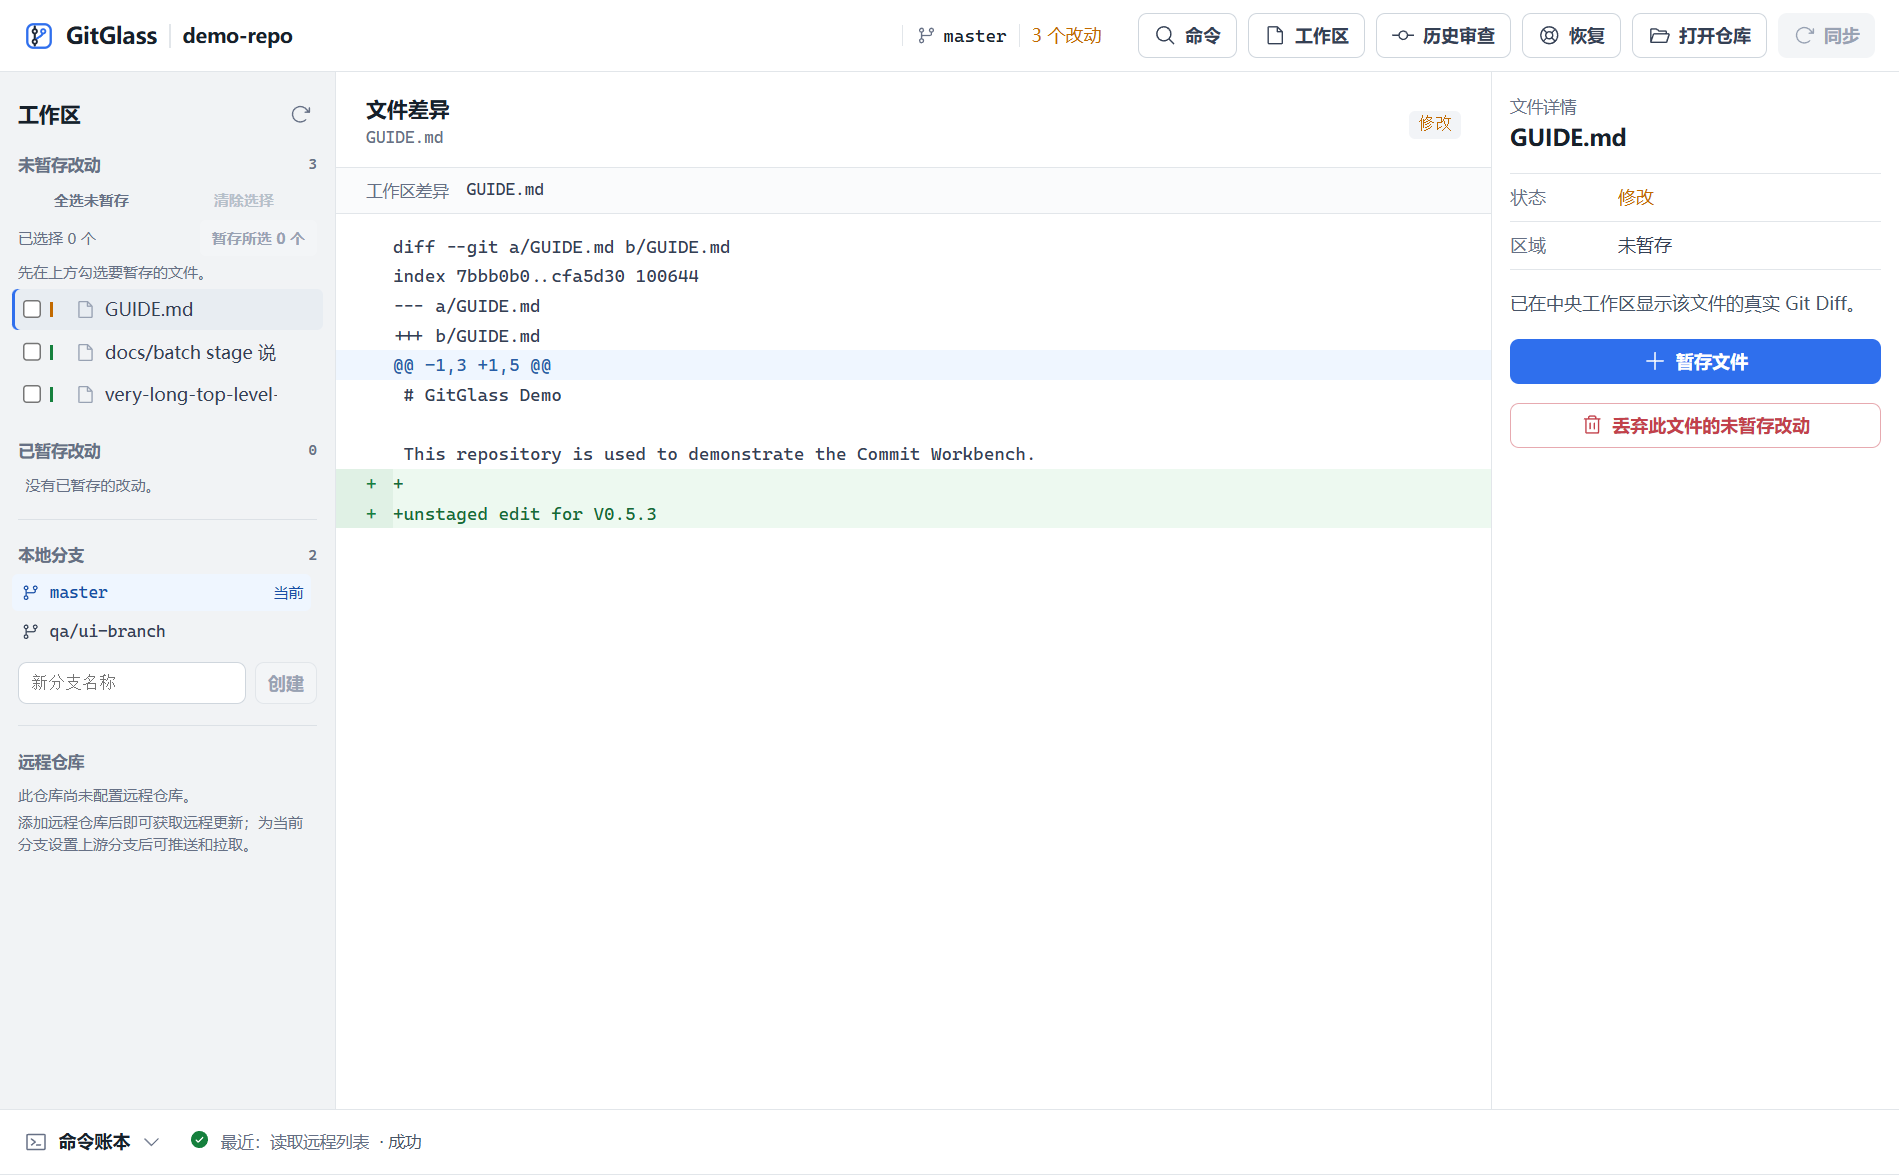
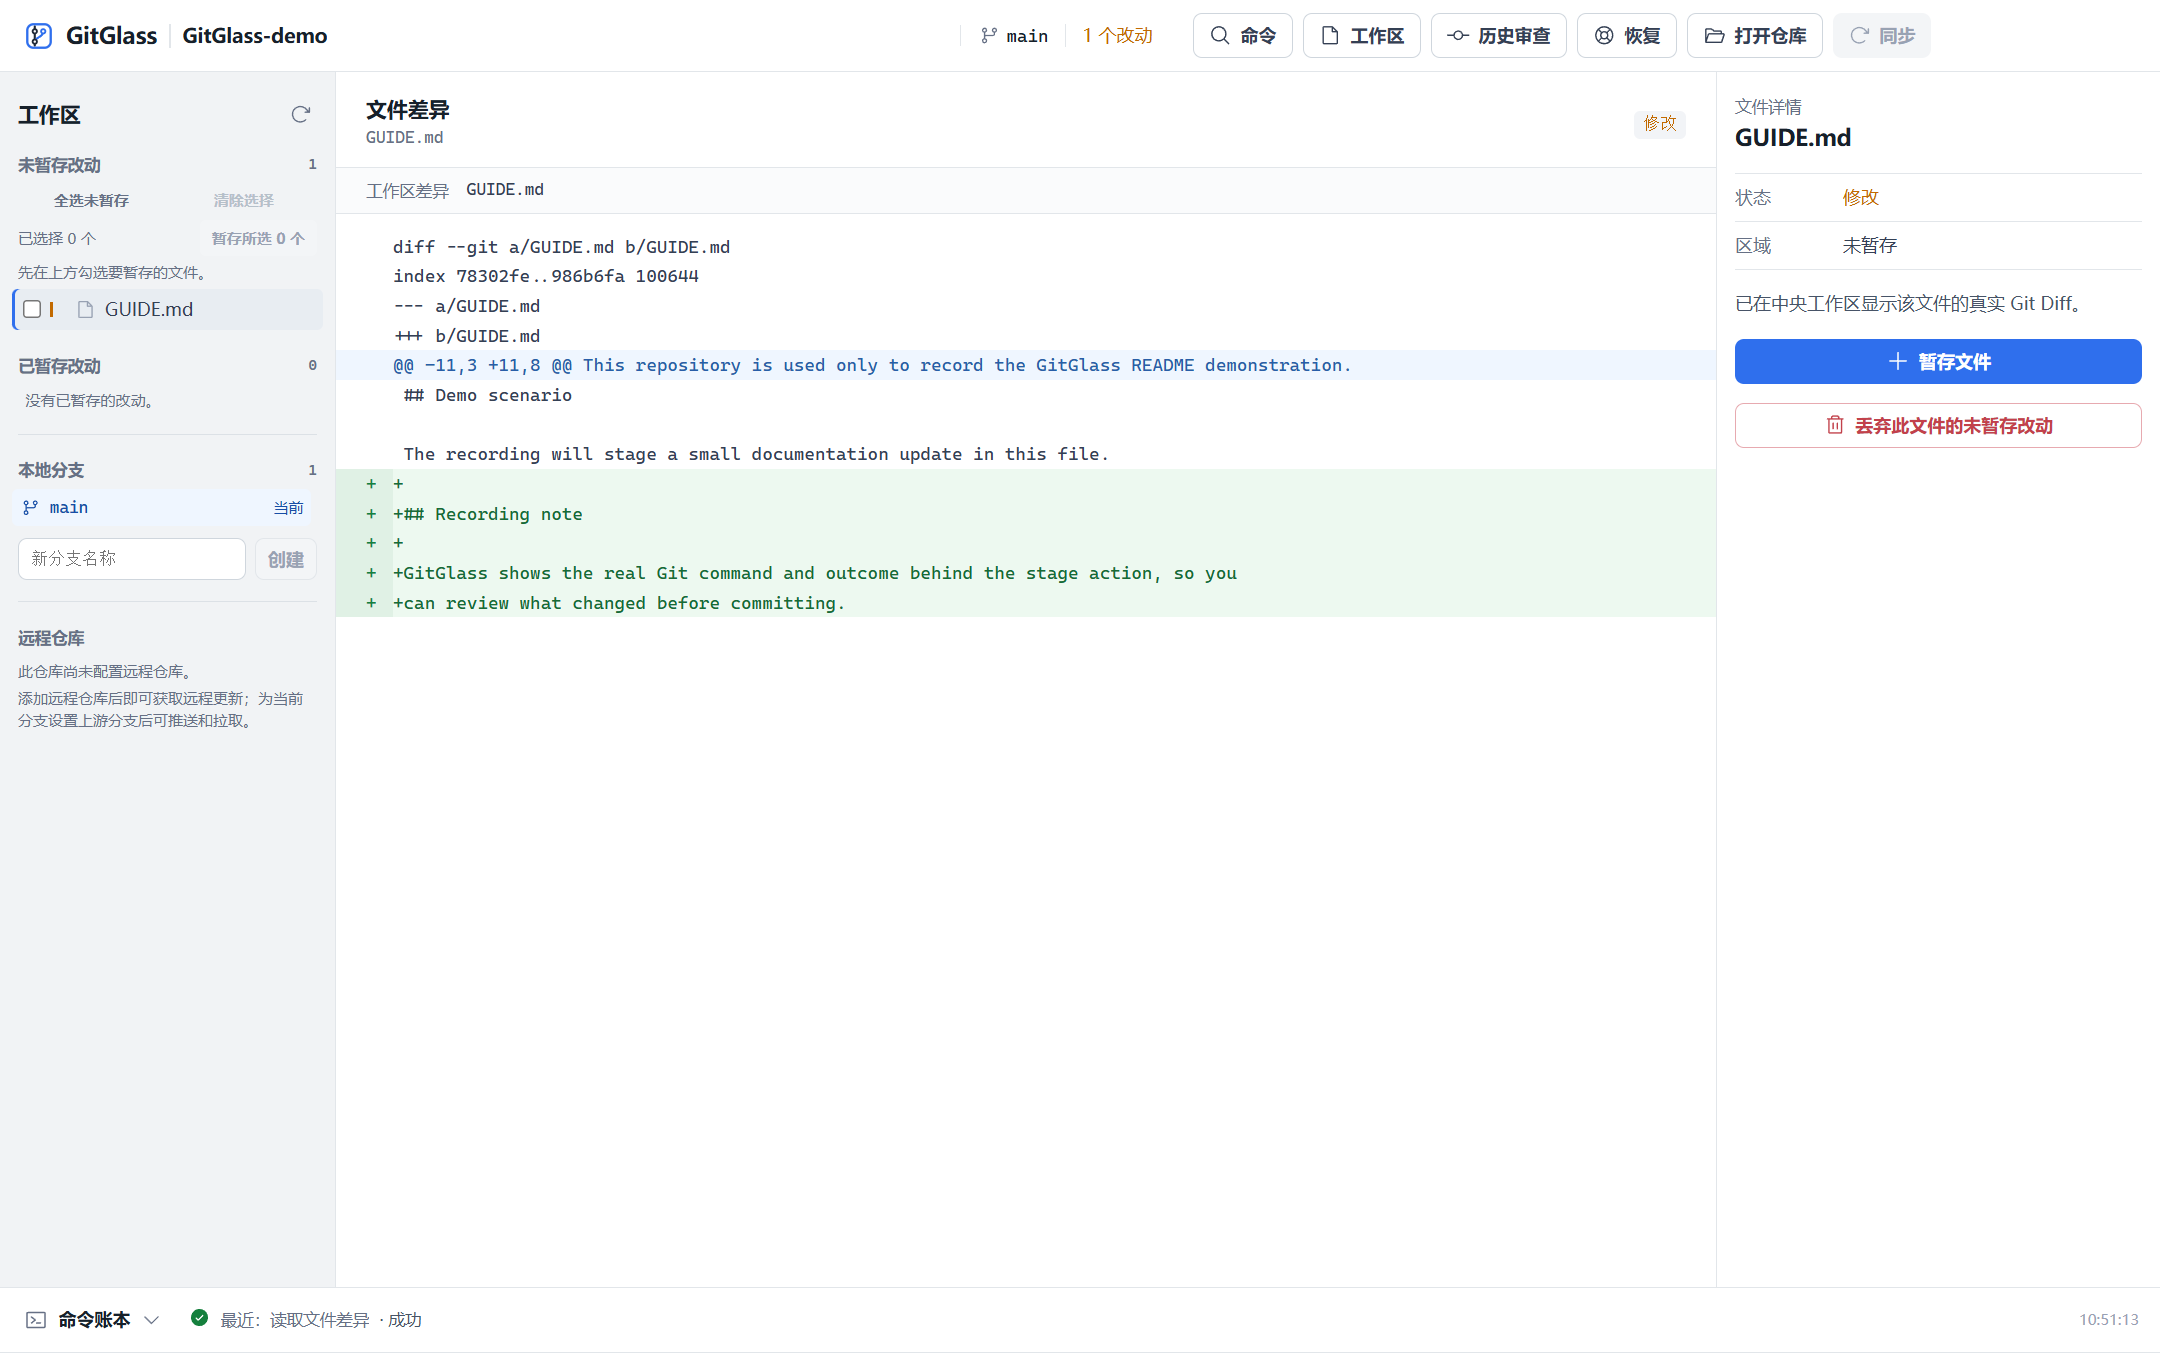
docs: refresh README hero and command ledger screenshots

diff --git a/README.md b/README.md
@@ -4,7 +4,9 @@
 
 <h1 align="center">GitGlass</h1>
 
-<p align="center">A transparent desktop Git workbench that shows the real Git command behind every action.</p>
+<p align="center"><strong>Review every Git action before it changes your repository.</strong></p>
+
+<p align="center">A local-first desktop Git workspace for inspecting real commands, reviewing changes, and committing with confidence.</p>
 
 <p align="center">English | <a href="README.zh-CN.md">简体中文</a></p>
 
@@ -12,9 +14,9 @@
 
 <!-- section:hero -->
 
-![GitGlass workspace showing real Git commands](docs/assets/readme/workspace-light.png)
+![GitGlass workspace reviewing an unstaged change](docs/assets/readme/workspace-light.png)
 
-GitGlass makes local Git work visible: inspect the command, the result, and the safety boundary before an operation changes a repository.
+Start with a familiar review flow: select a changed file, inspect its real Git Diff, then decide what to stage.
 
 <!-- section:why-gitglass -->
 
@@ -91,15 +93,11 @@ If Git is missing, GitGlass will prompt you to install Git. GitGlass does not bu
 
 <!-- section:screenshots -->
 
-## Screenshots
+## Command Ledger
 
-![GitGlass workspace showing real Git commands](docs/assets/readme/workspace-light.png)
+![GitGlass Command Ledger showing a successful git add operation](docs/assets/readme/command-ledger.png)
 
-The workspace shows file status, a real Git Diff, and a collapsed Command Ledger.
-
-![GitGlass history review with an applied filter and commit detail](docs/assets/readme/history-review.png)
-
-History review keeps the applied filter, selected commit, changed files, and real review actions in view.
+After a user action, the Command Ledger keeps the actual command, its source, working directory, result, and exit status available for review. Technical output stays collapsed unless you need it.
 
 <!-- section:development -->
 

diff --git a/README.zh-CN.md b/README.zh-CN.md
@@ -4,7 +4,9 @@
 
 <h1 align="center">GitGlass</h1>
 
-<p align="center">让每一次 Git 操作都可见、可审阅、可追溯的桌面工作台。</p>
+<p align="center"><strong>每一次 Git 改变仓库前，都值得先看清它。</strong></p>
+
+<p align="center">GitGlass 是本地优先的桌面 Git 工作台：审阅真实命令、检查改动，再安心提交。</p>
 
 <p align="center"><a href="README.md">English</a> | 简体中文</p>
 
@@ -12,9 +14,9 @@
 
 <!-- section:hero -->
 
-![GitGlass 工作区与真实 Git 命令账本](docs/assets/readme/workspace-light.png)
+![GitGlass 工作区正在审阅未暂存改动](docs/assets/readme/workspace-light.png)
 
-GitGlass 让本机 Git 工作过程清晰可见：在操作改变仓库之前，先审阅命令、结果与安全边界。
+从熟悉的审阅流程开始：选中改动文件、查看真实 Git Diff，再决定是否暂存。
 
 <!-- section:why-gitglass -->
 
@@ -91,15 +93,11 @@ git --version
 
 <!-- section:screenshots -->
 
-## 截图
+## 命令账本
 
-![GitGlass 工作区与真实 Git 命令账本](docs/assets/readme/workspace-light.png)
+![GitGlass 命令账本显示一次成功的 git add 操作](docs/assets/readme/command-ledger.png)
 
-工作区展示文件状态、真实 Git Diff，以及收起的命令账本。
-
-![GitGlass 历史审阅，显示已应用筛选与提交详情](docs/assets/readme/history-review.png)
-
-历史审阅集中展示已应用的筛选、选中的提交、改动文件和真实审阅操作。
+一次用户操作完成后，命令账本会保留真实命令、操作来源、工作目录、结果和退出状态，随时可审阅；只有在需要时才展开技术输出。
 
 <!-- section:development -->
 
